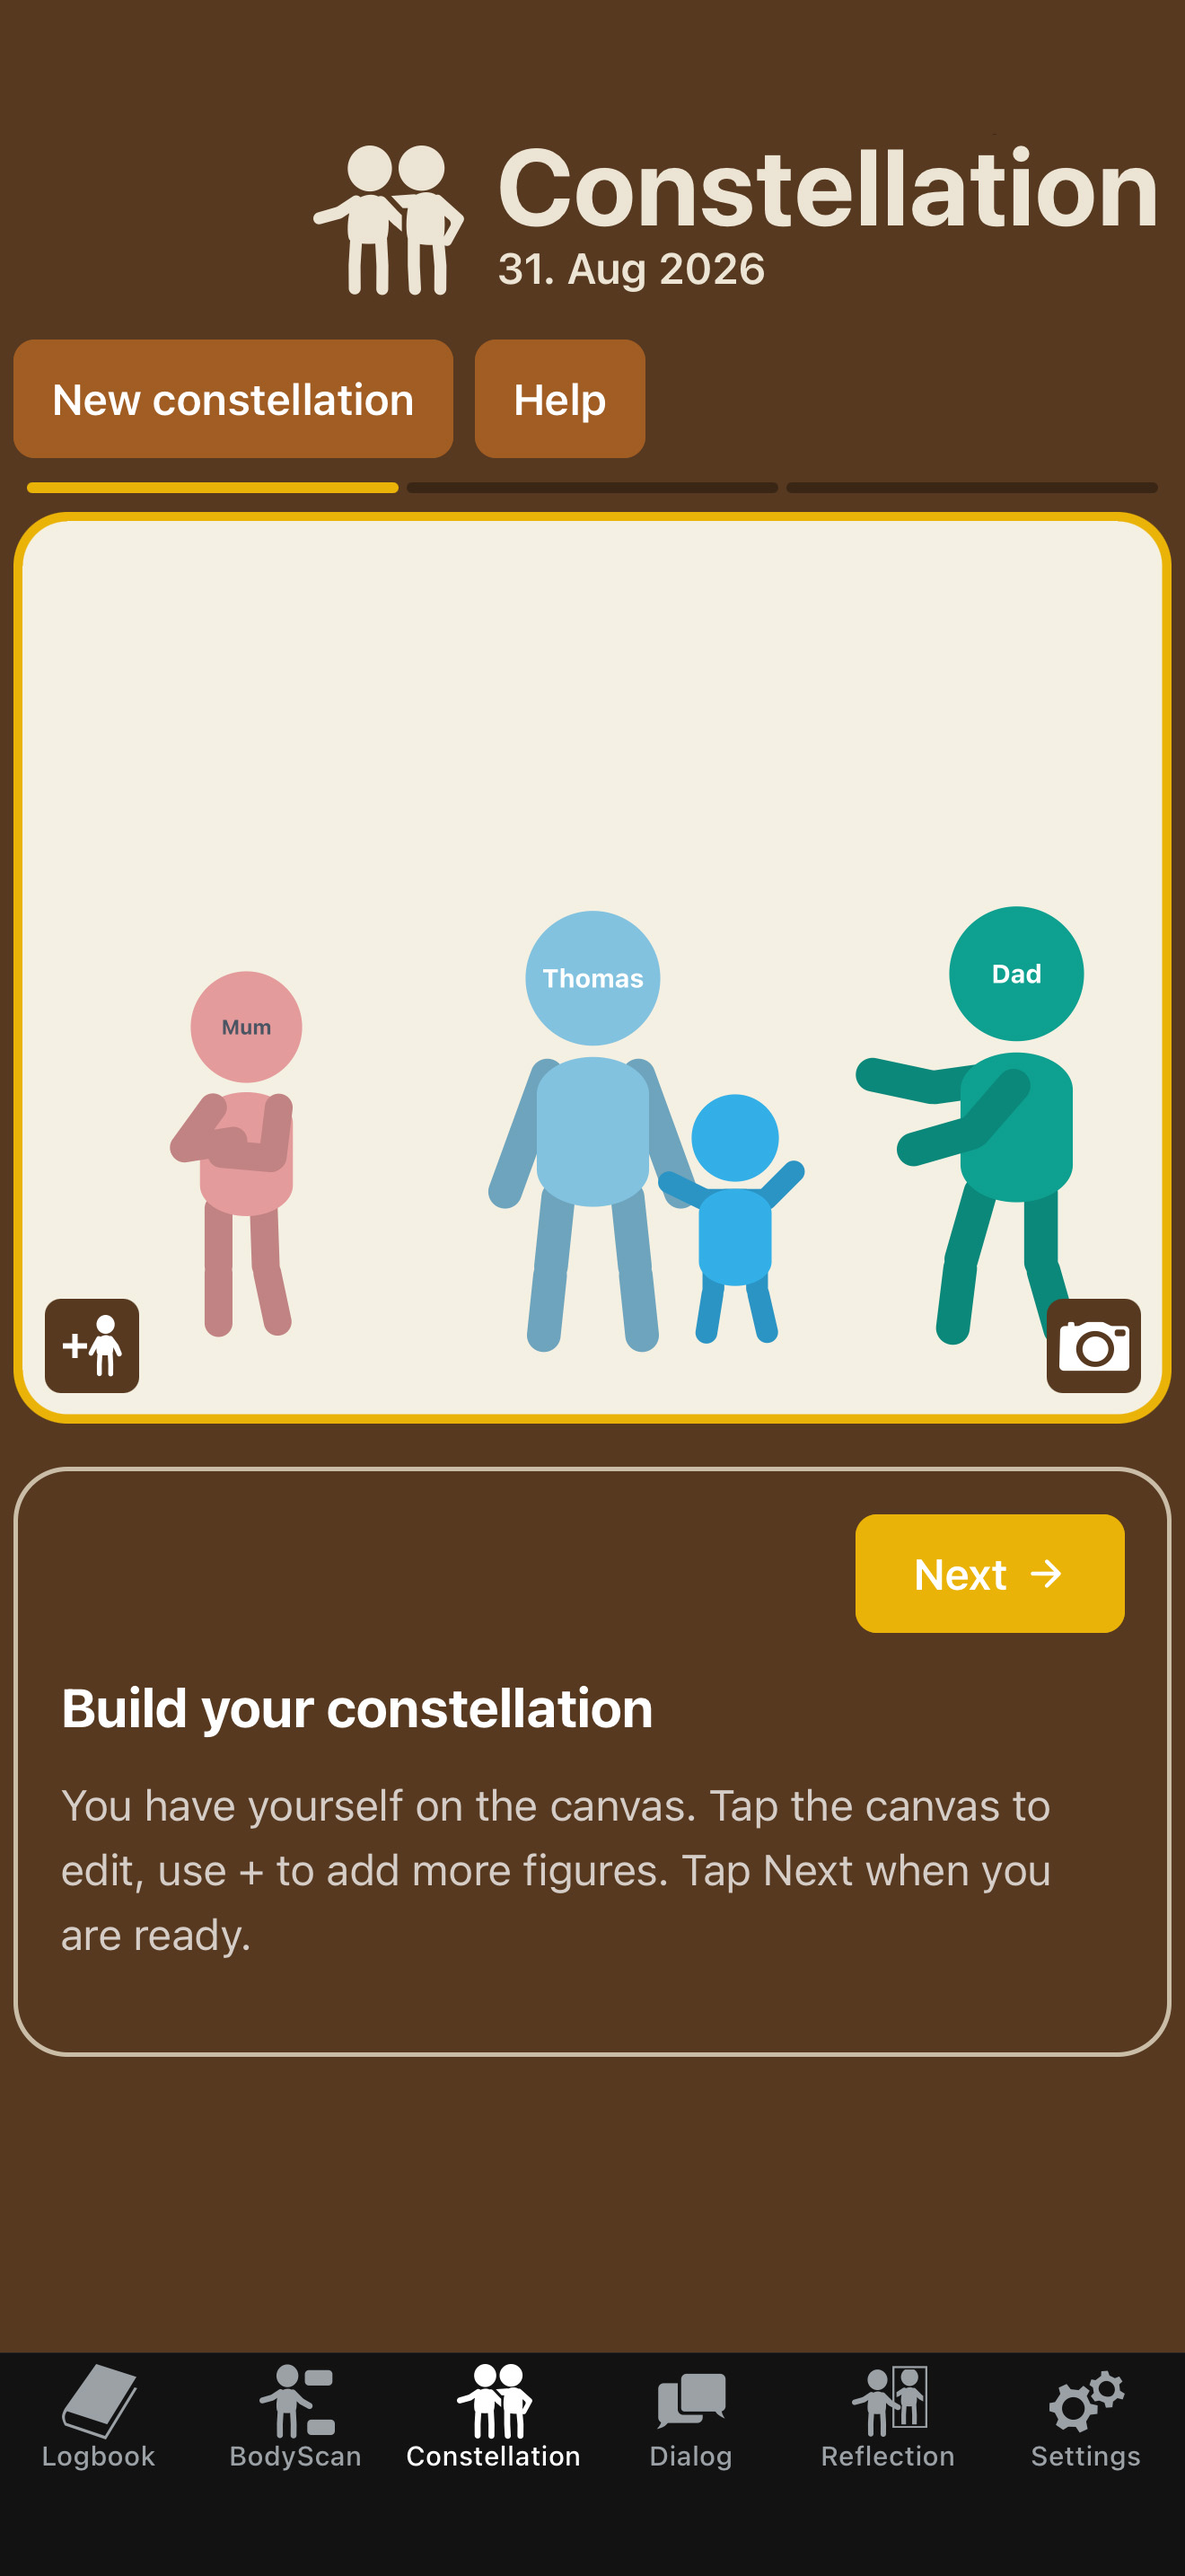
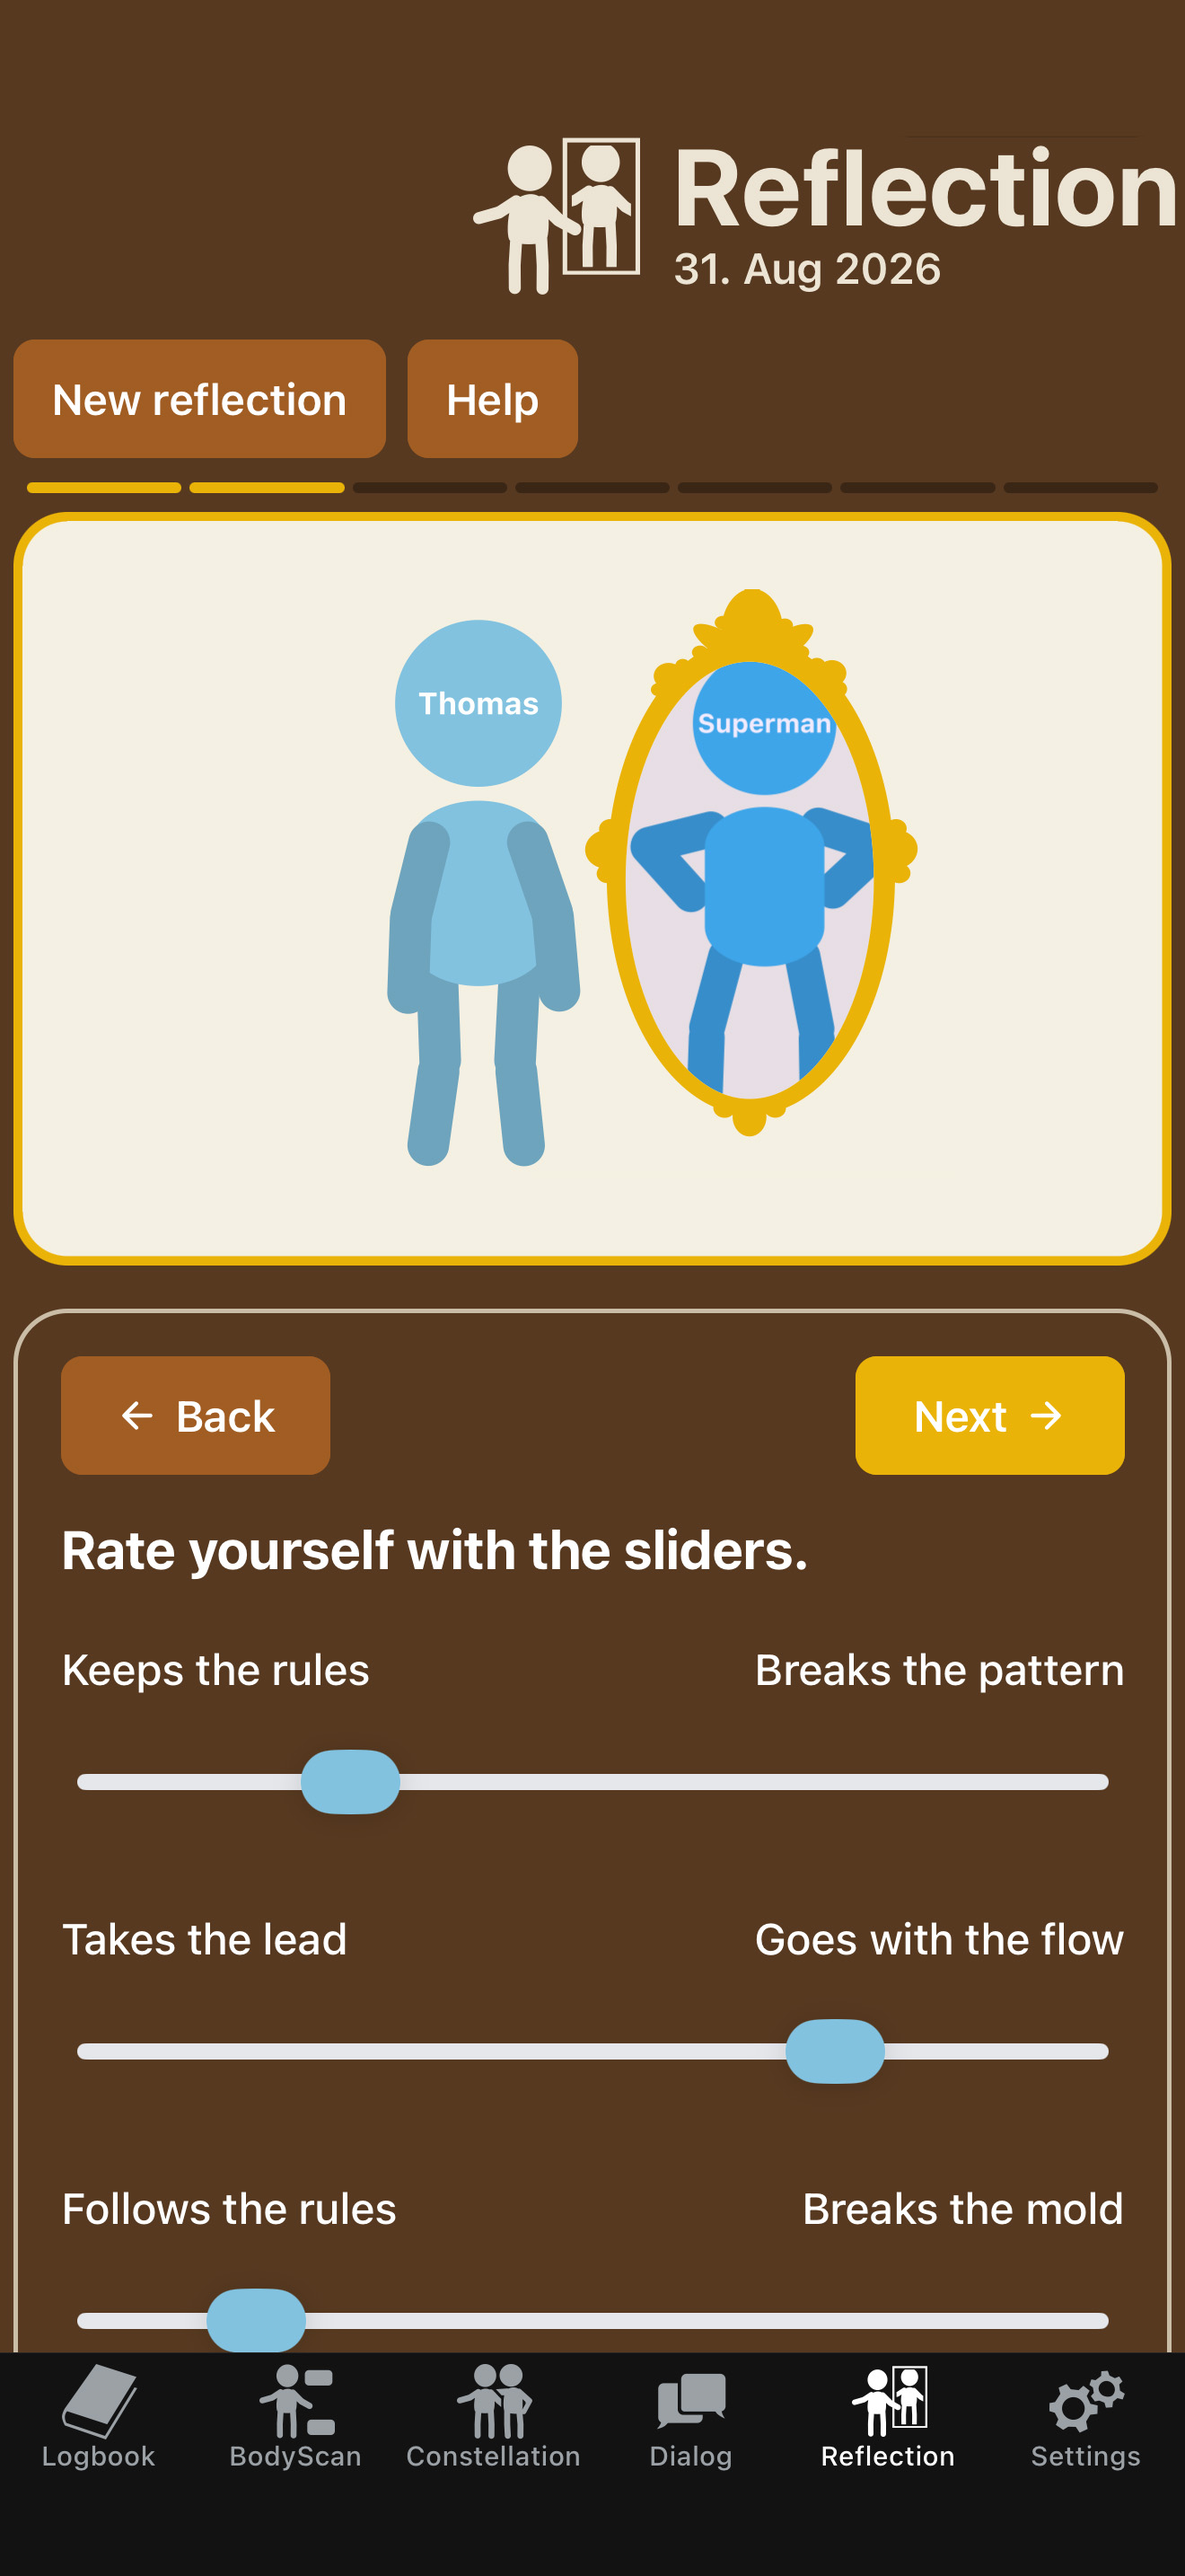
Update homepage mascot color and spejling card image.
Set GuideFigure on index to #ecab03 and refresh the spejling_en card artwork.

diff --git a/index.html b/index.html
@@ -287,7 +287,7 @@
             width: 72px;
             height: 72px;
             border-radius: 50%;
-            background: #d97706;
+            background: #ecab03;
             box-shadow: 0 8px 25px rgba(0,0,0,0.15);
             z-index: 5;
         }
@@ -308,7 +308,7 @@
         .index-mascot-wrap .torso {
             width: 60px;
             height: 80px;
-            background: #d97706;
+            background: #ecab03;
             margin: 0 auto;
             border-radius: 30px 30px 20px 20px;
             box-shadow: 0 4px 15px rgba(0,0,0,0.15);
@@ -324,7 +324,7 @@
             transform: translateX(-50%);
             width: 4px;
             height: 4px;
-            background: #d97706;
+            background: #ecab03;
             border-radius: 50%;
         }
 
@@ -352,7 +352,7 @@
         .index-mascot-wrap .arm_geo_right {
             width: 50px;
             height: 18px;
-            background: #d97706;
+            background: #ecab03;
             border-radius: 9px;
             position: relative;
             top: -1px;
@@ -375,7 +375,7 @@
             left: 1px;
             width: 50px;
             height: 18px;
-            background: #d97706;
+            background: #ecab03;
             border-radius: 9px;
             z-index: 4;
         }
@@ -404,7 +404,7 @@
         .index-mascot-wrap .arm_geo_left {
             width: 50px;
             height: 18px;
-            background: #d97706;
+            background: #ecab03;
             border-radius: 9px;
             position: relative;
             top: -1px;
@@ -427,7 +427,7 @@
             left: -33px;
             width: 50px;
             height: 18px;
-            background: #d97706;
+            background: #ecab03;
             border-radius: 9px;
             z-index: 4;
         }
@@ -451,7 +451,7 @@
         .index-mascot-wrap .laar_geo_right {
             width: 18px;
             height: 55px;
-            background: #d97706;
+            background: #ecab03;
             border-radius: 9px;
             position: relative;
             top: -1px;
@@ -474,7 +474,7 @@
             left: -1px;
             width: 18px;
             height: 50px;
-            background: #d97706;
+            background: #ecab03;
             border-radius: 9px;
         }
 
@@ -497,7 +497,7 @@
         .index-mascot-wrap .laar_geo_left {
             width: 18px;
             height: 55px;
-            background: #d97706;
+            background: #ecab03;
             border-radius: 9px;
             position: relative;
             top: -1px;
@@ -520,7 +520,7 @@
             left: -1px;
             width: 18px;
             height: 50px;
-            background: #d97706;
+            background: #ecab03;
             border-radius: 9px;
         }
 
